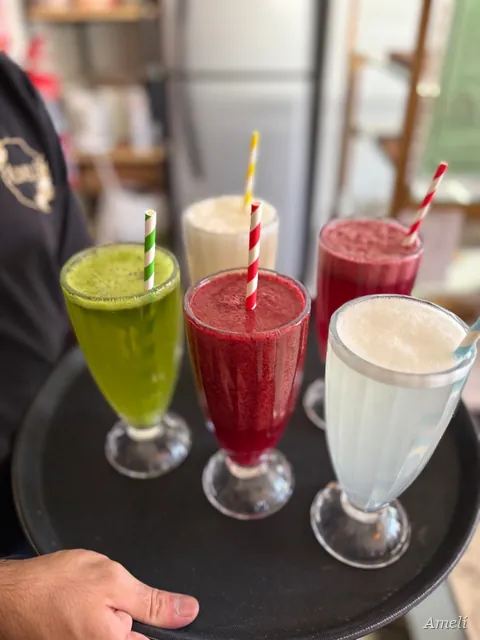
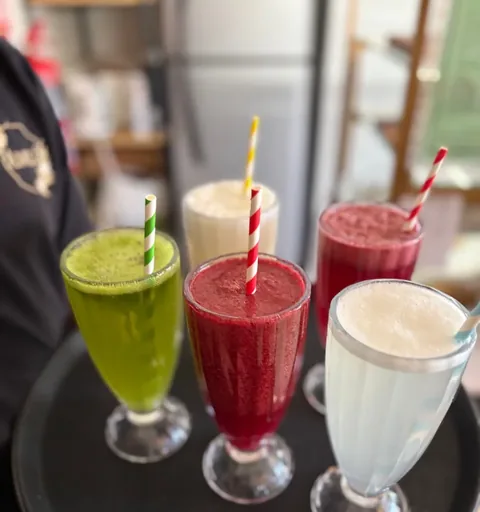
Ajustes de diseño: foto real en menú, tipografía unificada, y limpieza de secciones
- Menú: agrega foto real del salón en el hero (antes placeholder) y
  alinea la tipografía de la marca con el sitio institucional
  (small-caps en el header, wordmark simple en el footer).
- Institucional: quita el botón de arrepentimiento duplicado del header
  (ya vive en el footer), alinea a la izquierda el párrafo de "Sobre
  Amelí", y recorta la foto de smoothies para sacar la mano que sostenía
  la bandeja.
- Institucional: elimina la sección "Comunidad / Instagram" (4 fotos +
  link de perfil) por pedido explícito, incluyendo el ítem del menú de
  navegación, el CSS asociado, las imágenes huérfanas y los tests que
  dependían de esa sección.

294/294 tests pasan (131 + 163 con 54 subtests).

diff --git a/web/templates/index.template.html b/web/templates/index.template.html
@@ -32,7 +32,6 @@ __SOCIAL_META_TAGS__
       <span class="logo-tipografico" aria-hidden="true">__MARCA__</span>
     </a>
     <div class="header-acciones">
-      <!--PAGINAS_LEGALES_START--><a class="header-legal-link" href="arrepentimiento.html">Botón de arrepentimiento</a><!--PAGINAS_LEGALES_END-->
       <!-- data-a11y-pending: oculta e inhabilita el botón por defecto
            (ver assets/css/site.css). Lo saca site.js recién después de
            encontrar todos los elementos del panel y registrar sus
@@ -70,7 +69,6 @@ __SOCIAL_META_TAGS__
     <!--PASTELERIA_PEDIDOS_START--><a href="#tienda">Carta y pedidos</a><!--PASTELERIA_PEDIDOS_END-->
     <!--SUSTENTABILIDAD_START--><a href="#sustentabilidad">Origen y compromiso</a><!--SUSTENTABILIDAD_END-->
     <!--PREGUNTAS_FRECUENTES_START--><a href="#preguntas-frecuentes">Preguntas frecuentes</a><!--PREGUNTAS_FRECUENTES_END-->
-    <a href="#instagram">Instagram</a>
     <a href="#ubicacion">Visitarnos</a>
     <a href="#contacto">Consultas</a>
     <!--SUMATE_START--><a href="#sumate">Sumate a Amelí</a><!--SUMATE_END-->
@@ -179,7 +177,7 @@ __SOCIAL_META_TAGS__
         <a class="btn btn-secundario" href="https://wa.me/__WHATSAPP_E164__" target="_blank" rel="noopener noreferrer">Pedir por WhatsApp<span class="solo-lectores"> (se abre en una pestaña nueva)</span></a>
       </div>
     </div>
-    <img class="espacio-tienda" alt="Bandeja con cinco batidos de distintos colores, cada uno con sorbete de papel, sostenida por una persona." src="assets/img/carta-pedidos-960.webp" srcset="assets/img/carta-pedidos-480.webp 480w, assets/img/carta-pedidos-720.webp 720w, assets/img/carta-pedidos-960.webp 960w" sizes="(min-width: 900px) 480px, 100vw" width="960" height="1280" loading="lazy" decoding="async">
+    <img class="espacio-tienda" alt="Bandeja con cinco batidos de distintos colores, cada uno con sorbete de papel." src="assets/img/carta-pedidos-960.webp" srcset="assets/img/carta-pedidos-480.webp 480w, assets/img/carta-pedidos-720.webp 720w, assets/img/carta-pedidos-960.webp 960w" sizes="(min-width: 900px) 480px, 100vw" width="960" height="1025" loading="lazy" decoding="async">
   </section><!--PASTELERIA_PEDIDOS_END-->
 
   <!--SUSTENTABILIDAD_START--><section class="sustentabilidad" id="sustentabilidad" aria-labelledby="titulo-sustentabilidad">
@@ -221,37 +219,6 @@ __SOCIAL_META_TAGS__
       </details>
     </div>
   </section><!--PREGUNTAS_FRECUENTES_END-->
-
-  <!-- Comunidad / Instagram -- se ubica antes de Visitarnos y
-       Consultas, como pidió Ignacio. Es una vidriera visual; los
-       canales de contacto no se repiten acá. -->
-  <section class="instagram-preview arquitectura-bloque" id="instagram" aria-labelledby="titulo-instagram">
-    <div class="instagram-cabecera">
-      <div>
-        <p class="eyebrow" id="titulo-instagram">Comunidad</p>
-        <h2 class="titulo-seccion">La mesa sigue en Instagram</h2>
-      </div>
-      <a class="link-secundario" href="https://instagram.com/__INSTAGRAM_HANDLE__" target="_blank" rel="noopener noreferrer">@__INSTAGRAM_HANDLE__<span class="solo-lectores"> (se abre en una pestaña nueva)</span></a>
-    </div>
-    <div class="instagram-grid">
-      <a href="https://www.instagram.com/p/DcEXg40lUrJ/?stkn=NnF3bWtkdWNpbGkw" target="_blank" rel="noopener noreferrer">
-        <img class="espacio-imagen espacio-instagram" alt="Bandeja con alfajores, brownies bañados en chocolate, merengues rellenos de dulce de leche y galletitas con mermelada de frutos rojos." src="assets/img/instagram-01-640.webp" srcset="assets/img/instagram-01-320.webp 320w, assets/img/instagram-01-640.webp 640w" sizes="(min-width: 900px) 25vw, 50vw" width="640" height="853" loading="lazy" decoding="async">
-        <span class="solo-lectores"> (se abre en una pestaña nueva)</span>
-      </a>
-      <a href="https://www.instagram.com/p/Dcv1nCVFfo3/?stkn=MTl0bTEzdjVrZGl3eA==" target="_blank" rel="noopener noreferrer">
-        <img class="espacio-imagen espacio-instagram" alt="Bagel tostado con huevo, jamón, queso, tomate y palta, cortado al medio." src="assets/img/instagram-02-640.webp" srcset="assets/img/instagram-02-320.webp 320w, assets/img/instagram-02-640.webp 640w" sizes="(min-width: 900px) 25vw, 50vw" width="640" height="853" loading="lazy" decoding="async">
-        <span class="solo-lectores"> (se abre en una pestaña nueva)</span>
-      </a>
-      <a href="https://www.instagram.com/reel/Dc6QqV1hOA1/?stkn=eGYyMDRnYXMwZ2N1" target="_blank" rel="noopener noreferrer">
-        <img class="espacio-imagen espacio-instagram" alt="Mesera atendiendo a un cliente junto a la ventana del salón, con el logo de Amelí reflejado en el vidrio." src="assets/img/instagram-03-640.webp" srcset="assets/img/instagram-03-320.webp 320w, assets/img/instagram-03-640.webp 640w" sizes="(min-width: 900px) 25vw, 50vw" width="640" height="853" loading="lazy" decoding="async">
-        <span class="solo-lectores"> (se abre en una pestaña nueva)</span>
-      </a>
-      <a href="https://www.instagram.com/p/DdP9FRaFHhl/?stkn=MTlwanBiYTB6ZHNl" target="_blank" rel="noopener noreferrer">
-        <img class="espacio-imagen espacio-instagram" alt="Manos armando una flor de papel para decorar una torta, y la torta terminada cubierta de pétalos rojos." src="assets/img/instagram-04-640.webp" srcset="assets/img/instagram-04-320.webp 320w, assets/img/instagram-04-640.webp 640w" sizes="(min-width: 900px) 25vw, 50vw" width="640" height="853" loading="lazy" decoding="async">
-        <span class="solo-lectores"> (se abre en una pestaña nueva)</span>
-      </a>
-    </div>
-  </section>
 
   <!-- ===== Visitarnos -- contiene únicamente lo necesario para
        llegar: dirección, horarios y mapas. Consultas vive en su propio

diff --git a/web/assets/css/site.css b/web/assets/css/site.css
@@ -647,23 +647,6 @@ a:focus-visible, button:focus-visible{
 }
 .lista-detalle{font-family:var(--font-body); font-size:.85rem; color:var(--texto-sec)}
 
-/* Comunidad / Instagram (referencia: benditoaceite.com) -- grilla de
-   espacios reservados, mismo tratamiento visual que .espacio-imagen ya
-   define (línea diagonal, borde), solo en formato cuadrado y de a 2/4
-   por fila en vez de un collage asimétrico. */
-.instagram-preview{
-  max-width:var(--max-w); margin:0 auto;
-  padding:56px 24px; border-bottom:1px solid var(--linea-suave);
-}
-.instagram-grid{
-  display:grid; grid-template-columns:repeat(2, 1fr); gap:14px;
-  margin:28px 0 24px;
-}
-.espacio-instagram{aspect-ratio:1/1; font-size:.65rem}
-@media(min-width:860px){
-  .instagram-grid{grid-template-columns:repeat(4, 1fr)}
-}
-
 .contacto-grid{display:grid; grid-template-columns:1fr; gap:28px}
 .contacto-canales{
   display:flex; flex-direction:column; font-style:normal;
@@ -965,7 +948,7 @@ html[data-lectura="simple"] .indice-num{font-style:normal}
    se agrega cómo llenarla. El fondo con el patrón diagonal que algunas
    de estas clases conservan en reglas de arriba/abajo queda debajo,
    tapado por la foto, sin que haga falta tocarlo. */
-img.espacio-tienda,img.espacio-sustentabilidad,img.espacio-instagram{
+img.espacio-tienda,img.espacio-sustentabilidad{
   width:100%; height:100%; object-fit:cover; display:block;
 }
 .portada-hero{
@@ -1011,7 +994,7 @@ img.portada-hero-fondo{
   border-bottom:3px solid var(--tinta); text-align:center;
 }
 .sobre-ameli .eyebrow{justify-content:center}
-.sobre-ameli p:not(.eyebrow){max-width:62ch; margin-left:auto; margin-right:auto}
+.sobre-ameli p:not(.eyebrow){max-width:62ch; margin-left:auto; margin-right:auto; text-align:left}
 
 .sabores{border-bottom:3px solid var(--tinta)}
 .sabor-card{border:2px solid var(--verde-osc); box-shadow:none}
@@ -1415,23 +1398,6 @@ footer::before{display:none}
 .contacto-compacto .lista-detalle,.resenas a{overflow-wrap:anywhere; word-break:break-word}
 .mapa-enlaces > *{max-width:100%}
 
-.instagram-preview{padding-top:80px; padding-bottom:88px; border-bottom:1px solid var(--linea-suave)}
-.instagram-cabecera{display:flex; flex-direction:column; align-items:flex-start; gap:12px}
-.instagram-cabecera .titulo-seccion{margin-bottom:0}
-.instagram-grid{gap:10px; margin-top:32px; margin-bottom:0}
-.espacio-instagram{border-color:var(--linea); aspect-ratio:4/5}
-
-/* Enlace normativo visible desde el primer acceso. No compite con las
-   dos herramientas del header: en pantallas angostas conserva un rótulo
-   breve y en desktop gana un poco más de aire. */
-.header-legal-link{
-  min-height:48px; padding:0 14px; display:inline-flex; align-items:center;
-  border:1px solid rgba(255,253,247,.45); border-radius:var(--radius-pill);
-  color:var(--blanco); text-decoration:none; font-size:.7rem; font-weight:700;
-  letter-spacing:.04em; text-transform:uppercase; white-space:nowrap;
-}
-.header-legal-link:hover,.header-legal-link:focus-visible{background:rgba(255,253,247,.12)}
-
 /* Consultas como directorio editorial oscuro: inspirado en la jerarquía
    del ejemplo aportado, sin copiar tipografía, marca ni contenido. */
 .consultas-directorio{
@@ -1506,7 +1472,6 @@ a.consulta-ficha:hover,a.consulta-ficha:focus-visible{padding-left:12px; backgro
   .ubicacion.visitarnos{grid-template-columns:minmax(320px,.9fr) minmax(420px,1.1fr); align-items:stretch}
   .visitarnos .espacio-mapa{min-height:680px}
   .visitarnos .ubicacion-contenido{padding:88px max(24px, calc((100vw - var(--max-w)) / 2)) 88px 56px}
-  .instagram-cabecera{flex-direction:row; justify-content:space-between; align-items:flex-end}
   .consultas-directorio{padding-top:110px; padding-bottom:110px}
 }
 
@@ -1540,6 +1505,5 @@ a.consulta-ficha:hover,a.consulta-ficha:focus-visible{padding-left:12px; backgro
   .footer-interior{flex-direction:column; align-items:flex-start}
   .enlaces-footer{justify-content:flex-start}
   .header-acciones{gap:6px}
-  .header-legal-link{max-width:112px; padding:0 10px; font-size:.61rem; text-align:center; line-height:1.1; white-space:normal}
   .consultas-directorio,.consultas-grid,.consulta-ficha{width:100%; max-width:100%; min-width:0}
 }

diff --git a/assets/css/menu.css b/assets/css/menu.css
@@ -42,7 +42,7 @@ html{scroll-behavior:smooth}
 body{font-family:'Karla',sans-serif;background:var(--blanco);color:var(--tinta);max-width:480px;margin:0 auto;min-height:100dvh;position:relative}
 ::selection{background:var(--rosa)}
 .topbar{display:flex;align-items:center;justify-content:space-between;gap:12px;max-width:480px;margin:0 auto;padding:18px 20px 0}
-.marca-top{font-family:'Cormorant Garamond',serif;font-size:calc(27px * var(--afs,1));font-weight:600;color:var(--verde);line-height:1}
+.marca-top{font-family:'Cormorant Garamond',serif;font-size:calc(27px * var(--afs,1));font-weight:600;color:var(--verde);line-height:1;font-variant-caps:small-caps;letter-spacing:.06em}
 .topbar-ctrl{display:flex;align-items:center;gap:8px;position:relative}
 .topbar-info{max-width:480px;margin:0 auto;padding:10px 20px 0;text-align:center}
 .topbar-info .sub{font-family:'Karla',sans-serif;font-size:calc(11px * var(--afs,1));letter-spacing:.08em;text-transform:uppercase;color:var(--texto-sec);font-weight:600}
@@ -53,13 +53,7 @@ body{font-family:'Karla',sans-serif;background:var(--blanco);color:var(--tinta);
 .estado .punto{animation:latir-punto 2.4s ease-in-out infinite}
 @keyframes latir-punto{0%,100%{opacity:1}50%{opacity:.45}}
 
-/* hero: todavía sin fotografía real (0/51 cargadas) -- placeholder con la
-   misma forma/proporción que va a tener la foto real el día que exista,
-   así el layout no se vuelve a tocar cuando llegue. */
-.hero-foto{margin:16px 16px 0;height:220px;border-radius:var(--radius-lg);position:relative;overflow:hidden;background:
-  radial-gradient(120% 90% at 20% 15%, rgba(250,246,236,.9), transparent 55%),
-  linear-gradient(155deg, #FAF6EC 0%, #F3ECDD 55%, #EADFC7 100%)}
-.hero-foto::after{content:'';position:absolute;inset:0;opacity:.1;background-image:radial-gradient(rgba(83,96,57,.35) .6px, transparent .6px);background-size:5px 5px}
+.hero-foto{margin:16px 16px 0;height:220px;border-radius:var(--radius-lg);position:relative;overflow:hidden;display:block;width:calc(100% - 32px);object-fit:cover;background:#F3ECDD}
 .hero-texto{max-width:480px;margin:0 auto;padding:18px 20px 4px;text-align:center}
 .hero-texto .saludo{font-family:'Cormorant Garamond',serif;font-style:italic;font-size:calc(16px * var(--afs,1));color:var(--texto-sec)}
 .hero-texto .pregunta{font-family:'Cormorant Garamond',serif;font-weight:600;font-size:calc(27px * var(--afs,1));color:var(--tinta);margin-top:2px}
@@ -202,7 +196,7 @@ section.cat.visible .lista .prod{opacity:1;transform:translateY(0)}
 .destacado-cat .fila{margin-top:10px}
 footer{margin-top:44px;background:var(--footer-bg);color:var(--sobre-verde);text-align:center;padding:44px 24px 110px;position:relative;overflow:hidden}
 footer svg.botanica{position:absolute;opacity:.1;width:230px;left:50%;top:-40px;transform:translateX(-50%) rotate(90deg)}
-footer .marca{font-family:'Cormorant Garamond',serif;font-size:calc(34px * var(--afs,1));font-weight:600;letter-spacing:.015em;text-transform:uppercase}
+footer .marca{font-family:'Cormorant Garamond',serif;font-size:calc(34px * var(--afs,1));font-weight:600}
 footer .grx{font-family:'Cormorant Garamond',serif;font-style:italic;font-size:calc(17px * var(--afs,1));margin-top:6px;color:var(--rosa)}
 .redes{display:flex;justify-content:center;gap:12px;margin-top:22px}
 .redes a{display:flex;align-items:center;gap:7px;text-decoration:none;color:var(--sobre-verde);border:1px solid rgba(242,234,225,.35);padding:9px 16px;border-radius:999px;font-size:calc(13px * var(--afs,1));font-weight:600;transition:transform .12s ease}
@@ -257,7 +251,7 @@ section.cat.sin-resultados .vacio{display:block}
   body{max-width:1280px}
   .topbar{max-width:1280px;padding:28px 40px 0}
   .topbar-info{max-width:640px;padding:12px 20px 0}
-  .hero-foto{height:360px;margin:20px 40px 0}
+  .hero-foto{height:360px;margin:20px 40px 0;width:calc(100% - 80px)}
   .hero-texto{max-width:640px;padding:22px 20px 4px}
   .cat-icons{padding:24px 40px 4px}
   .momentos{margin:12px 40px 0}

diff --git a/templates/menu.template.html b/templates/menu.template.html
@@ -42,7 +42,7 @@ __CSP_META__
   <p class="lugar" id="heroLugar"></p>
 </div>
 
-<div class="hero-foto" aria-hidden="true"></div>
+<img class="hero-foto" src="assets/img/hero-salon-960.webp" srcset="assets/img/hero-salon-480.webp 480w, assets/img/hero-salon-960.webp 960w" sizes="(min-width: 480px) 480px, 100vw" alt="Salón de Amelí, con mesas de madera, piso a cuadros y la vitrina de pastelería al fondo." width="960" height="1280" loading="eager" decoding="async">
 <div class="hero-texto">
   <p class="saludo" id="heroSaludo"></p>
   <p class="pregunta" id="heroPregunta"></p>

diff --git a/web/tests/test_build_site.py b/web/tests/test_build_site.py
@@ -853,14 +853,13 @@ class TestConstruirPreviewYProduccion(SandboxConstruirTestCase):
         ):
             self.assertNotIn(frase, contenido)
 
-    def test_instagram_visitarnos_y_consultas_tienen_orden_y_funcion_propios(self):
-        """Instagram va primero; llegar y escribir no se mezclan."""
+    def test_visitarnos_y_consultas_tienen_orden_y_funcion_propios(self):
+        """Llegar y escribir no se mezclan."""
         build_site.construir(produccion=False)
         contenido = (build_site.DIST_PATH / "index.html").read_text(encoding="utf-8")
         self.assertRegex(contenido, r'<section[^>]+id="ubicacion"')
         self.assertRegex(contenido, r'<section[^>]+id="contacto"')
         self.assertIn('class="consultas-directorio', contenido)
-        self.assertLess(contenido.index('id="instagram"'), contenido.index('id="ubicacion"'))
         self.assertLess(contenido.index('id="ubicacion"'), contenido.index('id="contacto"'))
         self.assertIn('id="titulo-ubicacion">Encontranos en Malargüe</h2>', contenido)
         self.assertNotIn("Vení a encontrarnos", contenido)
@@ -928,7 +927,6 @@ class TestConstruirPreviewYProduccion(SandboxConstruirTestCase):
 
         # 1) contenido esencial presente directamente en el HTML.
         self.assertIn("wa.me/5492604106653", html_crudo)
-        self.assertIn("instagram.com/ameli.casadete", html_crudo)
         self.assertIn(CONFIG_VALIDO["menu_url"], html_crudo)
 
         # 2) el botón de accesibilidad arranca marcado como pendiente.
@@ -962,7 +960,7 @@ class TestConstruirPreviewYProduccion(SandboxConstruirTestCase):
         self.assertRegex(contenido, r'<dialog[^>]+id="navPanel"')
         for ancla in (
             "contenido", "filosofia", "experiencias", "tienda",
-            "sustentabilidad", "preguntas-frecuentes", "instagram", "ubicacion", "contacto",
+            "sustentabilidad", "preguntas-frecuentes", "ubicacion", "contacto",
         ):
             self.assertIn(f'href="#{ancla}"', contenido)
             self.assertRegex(contenido, rf'id="{ancla}"')
@@ -1035,11 +1033,11 @@ class TestConstruirPreviewYProduccion(SandboxConstruirTestCase):
         self.assertRegex(css, r"\.consultas-grid\{[^}]*font-style:normal")
 
     def test_fotografias_reales_tienen_atributos_completos_y_mapa_sigue_reservado(self):
-        """Portada, Carta y pedidos, Origen y compromiso, y las 4 fotos de
-        Instagram ya son <img> reales (fotos propias incorporadas el
-        2026-09-16) -- cada una con ancho/alto (evita saltos de layout),
-        srcset+sizes (responsive) y alt no vacío con texto real (no son
-        decorativas). El mapa sigue sin foto ni embed, por diseño."""
+        """Portada, Carta y pedidos, y Origen y compromiso ya son <img>
+        reales (fotos propias incorporadas el 2026-09-16) -- cada una con
+        ancho/alto (evita saltos de layout), srcset+sizes (responsive) y
+        alt no vacío con texto real (no son decorativas). El mapa sigue
+        sin foto ni embed, por diseño."""
         self.escribir_config(config_valido(
             presentacion_sobre_ameli="Filosofía confirmada.",
             servicios_habilitado=True,
@@ -1051,7 +1049,6 @@ class TestConstruirPreviewYProduccion(SandboxConstruirTestCase):
         imgs = re.findall(r'<img\b[^>]*>', contenido)
         clases_con_foto = (
             "portada-hero-fondo", "espacio-tienda", "espacio-sustentabilidad",
-            "espacio-instagram",
         )
         for clase in clases_con_foto:
             etiquetas = [img for img in imgs if f'class="{clase}"' in img or f' {clase}"' in img or f'"{clase} ' in img]
@@ -1070,7 +1067,7 @@ class TestConstruirPreviewYProduccion(SandboxConstruirTestCase):
         self.assertIn('loading="eager"', portada_img)
         # El resto de las fotos sí son lazy.
         for img in imgs:
-            if "portada-hero-fondo" not in img and ("espacio-tienda" in img or "espacio-sustentabilidad" in img or "espacio-instagram" in img):
+            if "portada-hero-fondo" not in img and ("espacio-tienda" in img or "espacio-sustentabilidad" in img):
                 self.assertIn('loading="lazy"', img)
         self.assertIn("espacio-mapa", contenido)
         self.assertNotRegex(contenido, r'<img\b[^>]*espacio-mapa')
